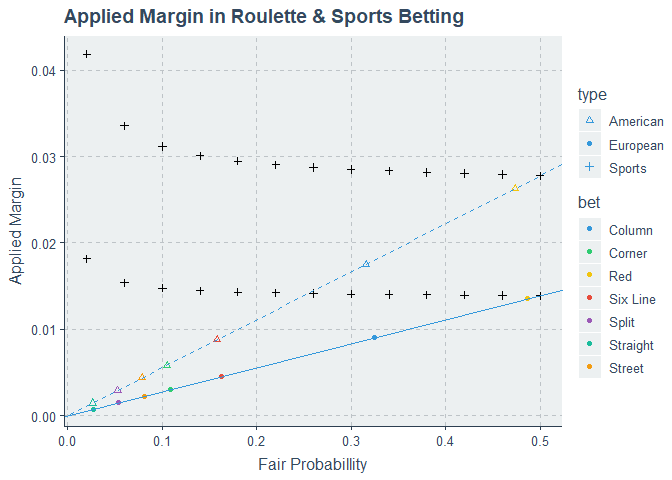
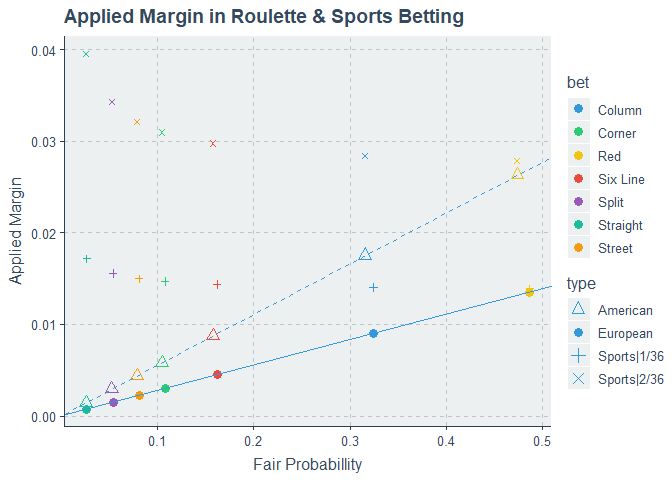
part 2

diff --git a/roulette_strategy.md b/roulette_strategy.md
@@ -13,6 +13,8 @@ Thanos Livanis
 Simulation of *Gambler’s Ruin* problem under different betting
 strategies
 
+@To do: render equations, graph display, comment part 2, add MMD,
+
 ## Roulette
 
 ### PnL Distribution
@@ -91,9 +93,8 @@ grid.arrange(pl_density, pl_box, ncol=2, top = "Profit & Loss distribution after
 **Theoretical probability to make a profit \~ Bet, Spins**
 
 If we spin the Roulette N times and win M bets:
-*P**n**L* = *M* \* *p**a**y**o**u**t* − (*N*−*M*). Thus:
-$M > \\frac{N}{payout + 1}$  
-*P**r**o**f**i**t**P**r**o**b**a**b**i**l**i**t**y* = *P*(*X*≥⌈*M*⌉) = pbinom(⌊*M*⌋,*S**p**i**n**s*,*π*,*l**o**w**e**r*.*t**a**i**l*=*F*)
+PnL = *M* ⋅ payout − (*N*−*M*). Thus: *M* \> *N* ÷ (payout+1)  
+Profit Probability = *P*(*X*≥⌈*M*⌉) = pbinom(⌊*M*⌋,Spins,*p*,lower.tail = F)
 
 ``` r
 prop_profit <- function(roulette_type, bet_type, nspins) {
@@ -124,7 +125,7 @@ expand.grid(bet_type = unique(roulette$bet),
 
 ![](roulette_strategy_files/figure-gfm/profit-1.png)<!-- -->
 
-Suppose that we bet on a single number (Straight Bet) in a European
+Suppose that we bet on a single number (Straight Bet) in European
 Roulette. The decimal odds are 36, fair odds are 37, and the fair
 probability is 1/37. The rest of the numbers constitute a *compound
 event*, with decimal odds, fair odds and fair probability 1, 37/36 and
@@ -149,33 +150,30 @@ as in the case of European and American Roulette respectively.
 ggthemr("flat")
 
 library(implied)
-sport_odds <- function(margin = 1/36) {
+sport_odds <- function(roulette_type) {
   
-  # Generate grid of fair probabilities - all possible combination with step 0.1
-  # can't allocate enough memory if events > 3| consider increasing step
-  fair_props <- do.call(expand.grid, replicate(2, seq(0.02, 0.98, 0.04), simplify = FALSE)) %>% 
-    filter(rowSums(.) == 1) %>% setNames(paste0("P", 1:2))
+  # fair Roulette probabilities
+  fair_props <- filter(roulette, type == roulette_type) %>% 
+    mutate(com_prop = 1 - prop, 
+           type = ifelse(roulette_type == "European",  "Sports|1/36", "Sports|2/36"))
   
-  bookmakers_odds  <- implied_odds(fair_props, "or", margin) %>% .[["odds"]] %>%
-    as.data.frame() %>% setNames(paste0("O", 1:2))
+  margin <- ifelse(roulette_type == "European", 1/36, 2/36)
   
-  odds <- bind_cols(fair_props, bookmakers_odds) %>% select(P1, O1) %>%
-    filter(P1 <= 0.5) %>% mutate(M = margin)  
+  bookmakers_odds  <- implied_odds(fair_props[, c("prop", "com_prop")], "or", margin) %>% .[["odds"]] %>%
+    as.data.frame() %>% select(1) %>% setNames("odds")
   
-  return (odds)
+  odds <- bind_cols(fair_props, bookmakers_odds) 
 }
 
-# method jsd is not supported with 'implied_odds'
-# additive method seems to produce identical results with wpo, excluding both
-odds <- map_dfr(list(1/36, 2/36), sport_odds) 
+odds <- map_dfr(list("European", "American"), sport_odds) 
 
 # Applied Margin
 ggplot() +
-  geom_point(data = roulette, aes(x = prop, y = 1/(payout + 1) - prop, color = bet, shape = type)) + 
-  geom_point(data = odds, aes(x = P1, y = 1/O1 - P1), color = "black", shape = 3) +
+  geom_point(data = roulette, aes(x = prop, y = 1/(payout + 1) - prop, color = bet, shape = type), size = 3) + 
+  geom_point(data = odds, aes(x = prop, y = 1/odds - prop, color = bet,  shape = type), show.legend = F) +
   geom_abline(intercept = 0, slope = 1/36, linetype = 1) + 
   geom_abline(intercept = 0, slope = 2/36, linetype = 2) + 
-  scale_shape_manual(values = c("American" = 2, "European" = 16, "Sports" = 3)) +
+  scale_shape_manual(values = c("American" = 2, "European" = 16, "Sports|1/36" = 3, "Sports|2/36" = 4)) +
   labs(x = "Fair Probabillity", y = "Applied Margin", title = "Applied Margin in Roulette & Sports Betting")
 ```
 
@@ -187,11 +185,13 @@ losses.
 
 ## II. Gamber’s Ruin in Roulette
 
+### Description
+
 We will use a variation of the classic Gambler’s Ruin problem under
 different betting strategies. In the classic scenario, a gambler starts
-with an initial capital and on each game, the gambler wins $1 with
-probability p or loses $1 with probability q = 1 − p. The gambler will
-stop playing if either N dollars are accumulated or all money has been
+with an initial capital and on each game, the gambler wins 1 with
+probability p or loses 1 with probability 1 − p. The gambler will stop
+playing if either N dollars are accumulated or all money has been
 lost.  
 
 In our case the Gambler starts with an initial Capital & stops until he
@@ -199,20 +199,219 @@ is ruined or reaches his target. He has the option to bet on an American
 or European Roulette and can choose to bet on a Straight, Split, Red
 etc. There are three betting strategies he can choose from:
 
-**1. Default Strategy**  
+**1. Default**  
 The gambler makes a constant bet, say $1  
 
 **2. Martingale**  
-The gambler starting with $1, tries to cover all previous loses. The
-strategy is typical for even odds, where we double our initial stake,
-but can be extended to uneven odds as well.
+The gambler starting with $1, tries to cover all previous consecutive
+loses and make a profit. The strategy is typical for even odds, where we
+double our initial stake, but can be extended to uneven odds as well.
 
-**3. Bold Strategy**  
+**3. Bold**  
 The gambler bets his entire capital.
 
 All betting strategies are limited by the current bank (we can’t bet
 more than we have), we can’t bet more than the Casino Limit, and most
-importantly we never bet more money than we need to reach our target. 
+important **we never bet more money than we need to reach our target.** 
 Thus the bold strategy doesn’t necessarily mean we always put all money.
 If our current bank is 80, our target is 100 and we bet on red, we will
 place 20$
+
+### Martingale
+
+Suppose that I bet 1$ to an event with payout p, expecting to make p
+units profit *S*<sub>0</sub> = 1 If i lose the bet then the next bet to
+cover the loss and make p units profit has to be:
+$S_1 = \\frac{p + 1}{p} = 1 + \\frac{1}{p}$ If
+*S*<sub>*n* − 1</sub> = *x*<sup>*n* − 1</sup>, where
+$x = 1 + \\frac{1}{p}$, after n-1 consecutive loses,
+$S_n = \\frac{p + x\_{0} + x\_{1} + \\cdots + x\_{n-1}}{p}$  
+$S_n = \\frac{p + \\frac{1-x^n}{1-x}}{p} = 1 + \\frac{1 - x^n}{(1-x)p}$  
+Substituting x, we get:  
+$S_n = x^n = (1+\\frac{1}{p})^n$  
+
+``` r
+ggthemr("flat")
+
+martingale_stakes <- function(payout, consecutive_loses) {
+  
+  params <- as.list(environment())
+  
+  stake <- vector("double", consecutive_loses)
+  
+  for (i in seq_along(stake)) 
+    stake[i] <- 1 + sum(stake[1:(i-1)])/payout
+  
+  stake <-bind_cols(params, data.frame(stake = round(1 + sum(stake)/payout, 3))) 
+}
+
+expand.grid(payout = unique(roulette$payout),
+                      consecutive_loses = 0:10) %>%
+  pmap(martingale_stakes) %>% bind_rows() %>% 
+  left_join(roulette[roulette$type == "European", c("payout", "bet")], by = "payout") %>%
+  ggplot(aes(x = consecutive_loses, y = stake, color = bet)) +
+  geom_point() + geom_smooth(show.legend = F) +
+  scale_x_continuous(breaks = 0:10) +
+  scale_y_continuous(trans='log2') +
+  labs(x = "Losing Streak", y = "Stake", "Martingale stakes for different payouts starting with 1$")
+```
+
+![](roulette_strategy_files/figure-gfm/martingale-1.png)<!-- -->
+
+### Simulation
+
+``` r
+# @params:
+# @roulette_type: "European" | "American"
+# @bet_type: {Straight, Split, Street...}
+# @max_bet: Casino limit
+
+# @strategy: Default| Martingale | Bold
+# Default: bet 1$
+# Martingale: Generalized martingale in uneven odds, where the current bet covers all previous loses. first bet 1$
+# Bold: Bet the whole bank
+# All strategies limited by current bank, max bet allowed by casino and
+# **We never bet more than we actually need to reach our target.**
+play_roulette <- function(roulette_type, bet_type, starting_bank, target_bank, max_bet, strategy, plot = F) {
+  
+  params <- as.list(environment())[1:6]
+  
+  id <- which(roulette$type == roulette_type & roulette$bet == bet_type)
+  prop <- roulette$prop[id]; payout <- roulette$payout[id]
+  
+  current_bank <- starting_bank
+  losing_streak <- 0
+  
+  # Allocate big enough containers to speed iteration
+  series <- vector("double", 10^5); stake <- vector("double", 10^5)
+  
+  series[1] <- current_bank
+  spins <- 0
+  
+  stake_fun <- function(strategy) {
+    
+    if (strategy == "Default")
+      function(bank, payout, ls) 1
+    else if (strategy == "Martingale")
+      function(bank, payout, ls) (1 + 1/payout)^ls
+    else 
+      function(bank, payout, ls) bank
+  }
+  
+  while (current_bank > 0 && current_bank < target_bank) {
+    
+    spins <- spins + 1
+    stake_limit <- min(max_bet, current_bank, (target_bank - current_bank)/payout)
+    
+    bet <- stake_fun(strategy)(current_bank, payout, losing_streak) %>% min(stake_limit)
+    spin <- rbinom(1, 1, prop)
+    
+    losing_streak <- ifelse(spin, 0, losing_streak + 1)
+
+    current_bank <- current_bank + bet*ifelse(spin, payout, -1)
+    
+    # update containers
+    stake[spins] <- bet
+    series[spins + 1] <- current_bank
+    
+  }
+  
+  #trim vectors
+  stake <- c(stake[1:spins], 0)
+  series <- series[1:(spins + 1)]
+  
+  sim <- data.frame(spins = 0:spins, 
+                    bank = series, 
+                    stake = stake) %>%bind_cols(params)
+  
+  if (plot) {
+    pl <- ggplot(sim, aes(x = spins, y = bank)) + 
+      geom_line(color = "red") + labs(title = "Roulette Spinning", 
+                                      subtitle = paste(c("Bet", "Strategy"), "=",  c(bet_type, strategy), collapse = ", "))
+    print(plot)
+  }
+    
+  return (sim)
+}
+```
+
+``` r
+ggthemr("flat")
+
+# Typical time Series
+expand.grid(roulette_type = "European",
+            bet_type = c("Straight", "Corner", "Red"),
+            starting_bank = 50,
+            target_bank = 100, 
+            max_bet = 100, 
+            strategy = c("Default", "Martingale", "Bold")) %>%
+  pmap_dfr(play_roulette) %>%
+  ggplot(aes(x = spins, y = bank, color = bet_type)) +
+  geom_line() +
+  scale_color_manual(breaks = c("Straight", "Corner", "Red"),
+                     values=c("orange", "blue", "red")) +
+  facet_wrap(strategy ~ bet_type, scales = "free_x") +
+  theme(strip.text.x = element_text(margin = margin(l = 0))) +
+  ggtitle("Random Spins")
+```
+
+![](roulette_strategy_files/figure-gfm/time_series-1.png)<!-- -->
+
+``` r
+# Simulate roulette round several times and & extract stats
+simulate <- function(roulette_type, bet_type, starting_bank, target_bank, max_bet, strategy) {
+  
+  set.seed(1)
+  nsims <- 5000
+  
+  mc_results <- replicate(nsims, play_roulette(roulette_type, bet_type, starting_bank, target_bank, max_bet, strategy), simplify = F) %>%
+    map_dfr(~tail(., 1)) %>%
+    group_by(group_by(across(4:9))) %>%
+    summarize(win_prop = mean(bank >= target_bank), 
+              win_prop_se = sqrt(win_prop*(1-win_prop)/nsims),
+              spins_exp = mean(spins),
+              spins_exp_se = sd(spins)/sqrt(nsims),
+              spins_longest = max(spins),
+              .groups = "drop") 
+}
+```
+
+``` r
+params <- expand.grid(roulette_type = "European",
+                      bet_type = unique(roulette$bet),
+                      starting_bank = 50,
+                      target_bank = 150, 
+                      max_bet = 100, 
+                      strategy = c("Default", "Martingale", "Bold"))
+
+
+results <- params %>%
+  pmap_dfr(simulate, .progress = T)
+```
+
+``` r
+ggthemr("flat")
+
+results %>%
+  ggplot(aes(x = strategy, y = win_prop, fill = bet_type)) +
+  geom_bar(stat="identity", position = "dodge", alpha = 0.8) +
+  geom_errorbar(aes(ymin = win_prop - win_prop_se, ymax = win_prop + win_prop_se, color = bet_type), width= .2, 
+                position = position_dodge(.9)) +
+  labs(x = "Strategy", y = "Win Probability", 
+       title = paste(c("Starting Bank", "Target Bank"), "=",  c(unique(results$starting_bank), unique(results$target_bank)), collapse = ", "))
+```
+
+![](roulette_strategy_files/figure-gfm/unnamed-chunk-1-1.png)<!-- -->
+
+``` r
+results %>%
+  ggplot(aes(x = strategy, y = spins_exp, fill = bet_type)) +
+  geom_bar(stat="identity", position = "dodge", alpha = 0.8) +
+  geom_errorbar(aes(ymin = spins_exp - spins_exp_se, ymax = spins_exp + spins_exp_se, color = bet_type), width = .2, 
+                position = position_dodge(.9)) +
+  scale_y_continuous(trans='log2') +
+    labs(x = "Strategy", y = "Win Probability", 
+       title = paste(c("Starting Bank", "Target Bank"), "=",  c(unique(results$starting_bank), unique(results$target_bank)), collapse = ", "))
+```
+
+![](roulette_strategy_files/figure-gfm/unnamed-chunk-1-2.png)<!-- -->
